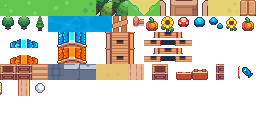
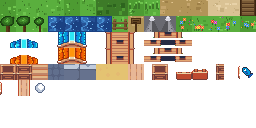
Use procedural pixel art tiles for much better terrain visuals
- Create build_tileset.py combining generate_tileset.py procedural tiles
  with buildings pack houses and Sunnyside interior tiles
- Procedural tiles have proper grass shading, lush tree canopies,
  animated water with waves, detailed paths, snow-capped mountains,
  colorful flowers with stems, wooden fences and bridges
- Regenerate character sprites with proper directional views and
  distinct colors per character type
- Houses still use Sunnyside buildings pack composite (blue + orange)
- Interior tiles from Sunnyside V2.1 tileset

https://claude.ai/code/session_015JgC28uQDCe8uTjKE3Rpo6

Changed region(s): [[0.0, 0.0, 1.0, 0.25], [0.0938, 0.0, 0.125, 0.0625], [0.1562, 0.0312, 0.1875, 0.0625]]

diff --git a/scripts/build_tileset.py b/scripts/build_tileset.py
@@ -1,0 +1,220 @@
+#!/usr/bin/env python3
+"""Build the final game tileset combining:
+- Procedural terrain tiles (from generate_tileset.py logic)
+- House tiles from Sunnyside buildings pack
+- Interior tiles from Sunnyside tileset
+Output: public/assets/sunnyside_tiles.png (256x128, 16x8 grid matching sprites.js TC layout)
+"""
+
+import sys
+import os
+sys.path.insert(0, os.path.dirname(__file__))
+
+from PIL import Image
+from generate_tileset import (
+    make_grass, make_dark_grass, make_tall_grass, make_path, make_sand,
+    make_tree, make_tree2, make_tree3, make_water, make_flower,
+    make_fence, make_bridge, make_sign, make_mountain, make_characters,
+    TILE
+)
+
+BUILDINGS = '/tmp/archive/SUNNYSIDE_WORLD_BUILDINGS_V0.01/SUNNYSIDE_WORLD_BUILDINGS_V0.01.png'
+SUNNYSIDE_TS = '/tmp/sunnyside/Sunnyside_World_Assets/Tileset/spr_tileset_sunnysideworld_16px.png'
+# Try V2.1 first
+SUNNYSIDE_TS_V2 = '/tmp/v2assets/Sunnyside_World_ASSET_PACK_V2.1/Sunnyside_World_Assets/Tileset/spr_tileset_sunnysideworld_16px.png'
+OUT = 'public/assets'
+
+
+def crop_tile(img, col, row, size=16):
+    return img.crop((col * size, row * size, (col + 1) * size, (row + 1) * size))
+
+
+def composite_house(bld):
+    """Build a 3x4 tile (48x64) house from the buildings pack."""
+    roof = bld.crop((2 * 16, 0, 5 * 16, 3 * 16))
+    wall = bld.crop((2 * 16, 4 * 16, 5 * 16, 8 * 16))
+    roof_s = roof.resize((48, 32), Image.NEAREST)
+    wall_s = wall.resize((48, 32), Image.NEAREST)
+    house = Image.new('RGBA', (48, 64), (0, 0, 0, 0))
+    house.paste(roof_s, (0, 0), roof_s)
+    house.paste(wall_s, (0, 32), wall_s)
+    return house
+
+
+def recolor_house(house, color='orange'):
+    """Create a color variant of the blue house."""
+    result = house.copy()
+    data = list(result.getdata())
+    new_data = []
+    for px in data:
+        r, g, b, a = px
+        if a > 20:
+            if color == 'orange':
+                if b > r + 30 and b > 100:
+                    nr = min(255, b + 20)
+                    ng = min(255, max(0, int(g * 0.65)))
+                    nb = max(0, int(r * 0.3))
+                    new_data.append((nr, ng, nb, a))
+                elif g > r + 30 and g > b + 30 and g > 120:
+                    nr = min(255, int(g * 0.9))
+                    ng = max(0, int(g * 0.5))
+                    nb = max(0, int(b * 0.3))
+                    new_data.append((nr, ng, nb, a))
+                else:
+                    new_data.append(px)
+            else:
+                new_data.append(px)
+        else:
+            new_data.append(px)
+    result.putdata(new_data)
+    return result
+
+
+def main():
+    os.makedirs(OUT, exist_ok=True)
+
+    COLS, ROWS = 16, 8
+    out = Image.new('RGBA', (COLS * TILE, ROWS * TILE), (0, 0, 0, 0))
+
+    def place(tile_img, col, row):
+        if tile_img.size != (16, 16):
+            tile_img = tile_img.resize((16, 16), Image.NEAREST)
+        out.paste(tile_img, (col * TILE, row * TILE), tile_img)
+
+    # ==================== ROW 0: TERRAIN ====================
+    # sprites.js expects: grass(0-5), darkGrass(6-7), tallGrass(8-9), path(10-12), sand(13-14), bridge(15)
+
+    # Grass variants (6 tiles)
+    for i in range(6):
+        place(make_grass(i), i, 0)
+
+    # Dark grass (2 tiles)
+    place(make_dark_grass(0), 6, 0)
+    place(make_dark_grass(1), 7, 0)
+
+    # Tall grass (2 tiles)
+    place(make_tall_grass(0), 8, 0)
+    place(make_tall_grass(1), 9, 0)
+
+    # Path (3 tiles)
+    for i in range(3):
+        place(make_path(i), 10 + i, 0)
+
+    # Sand (2 tiles)
+    place(make_sand(0), 13, 0)
+    place(make_sand(1), 14, 0)
+
+    # Bridge
+    place(make_bridge(), 15, 0)
+
+    # ==================== ROW 1: OBJECTS ====================
+    # sprites.js expects: tree(0-2), water(3-6), fence(7), sign(8), mountain(9-10), flower(11-15)
+
+    # Trees (3 variants)
+    place(make_tree(0), 0, 1)
+    place(make_tree2(1), 1, 1)
+    place(make_tree3(2), 2, 1)
+
+    # Water (4 animated frames)
+    for i in range(4):
+        place(make_water(i), 3 + i, 1)
+
+    # Fence
+    place(make_fence(), 7, 1)
+
+    # Sign
+    place(make_sign(), 8, 1)
+
+    # Mountain (2 tiles)
+    place(make_mountain(), 9, 1)
+    # Mountain variant (slightly different)
+    mt2 = make_mountain()
+    # Flip for variety
+    mt2 = mt2.transpose(Image.FLIP_LEFT_RIGHT)
+    place(mt2, 10, 1)
+
+    # Flowers (5 variants)
+    for i in range(5):
+        place(make_flower(i), 11 + i, 1)
+
+    # ==================== ROW 2: HOUSE (Blue) ====================
+    # sprites.js expects: 12 house tiles (4 rows × 3 cols) at (0-11, y=2)
+    try:
+        bld = Image.open(BUILDINGS)
+        house_blue = composite_house(bld)
+        for row in range(4):
+            for col in range(3):
+                tile = house_blue.crop((col * 16, row * 16, (col + 1) * 16, (row + 1) * 16))
+                place(tile, row * 3 + col, 2)
+        print('Blue house: from buildings pack')
+    except Exception as e:
+        print(f'Blue house: fallback (error: {e})')
+
+    # ==================== ROW 3: HOUSE (Orange) ====================
+    try:
+        bld = Image.open(BUILDINGS)
+        house_orange = recolor_house(composite_house(bld), 'orange')
+        for row in range(4):
+            for col in range(3):
+                tile = house_orange.crop((col * 16, row * 16, (col + 1) * 16, (row + 1) * 16))
+                place(tile, row * 3 + col, 3)
+        print('Orange house: recolored from buildings pack')
+    except Exception as e:
+        print(f'Orange house: fallback (error: {e})')
+
+    # ==================== ROWS 4-5: INTERIOR ====================
+    # Try Sunnyside tileset for furniture
+    ts = None
+    for ts_path in [SUNNYSIDE_TS_V2, SUNNYSIDE_TS]:
+        try:
+            ts = Image.open(ts_path)
+            print(f'Interior tiles from: {ts_path}')
+            break
+        except:
+            continue
+
+    if ts:
+        # Floor tiles
+        place(crop_tile(ts, 39, 9), 0, 4)
+        place(crop_tile(ts, 40, 10), 1, 4)
+        place(crop_tile(ts, 38, 12), 2, 4)
+        # Wall tiles
+        place(crop_tile(ts, 1, 15), 3, 4)
+        place(crop_tile(ts, 2, 15), 4, 4)
+        place(crop_tile(ts, 4, 15), 5, 4)
+        # Table
+        place(crop_tile(ts, 43, 7), 6, 4)
+        place(crop_tile(ts, 42, 7), 7, 4)
+        # Chair
+        place(crop_tile(ts, 40, 12), 8, 4)
+        # Bookshelf
+        place(crop_tile(ts, 35, 9), 9, 4)
+        place(crop_tile(ts, 36, 9), 10, 4)
+        # Barrel
+        place(crop_tile(ts, 45, 12), 11, 4)
+        # Chest
+        place(crop_tile(ts, 46, 12), 12, 4)
+        # Bed
+        place(crop_tile(ts, 37, 10), 13, 4)
+        # Pot
+        place(crop_tile(ts, 44, 10), 14, 4)
+        # Carpet
+        place(crop_tile(ts, 49, 12), 15, 4)
+        # Row 5
+        place(crop_tile(ts, 46, 10), 0, 5)  # Torch
+        place(crop_tile(ts, 43, 10), 1, 5)  # Doormat
+        place(crop_tile(ts, 48, 10), 2, 5)  # Altar
+    else:
+        print('WARNING: No Sunnyside tileset found for interior tiles')
+
+    out.save(f'{OUT}/sunnyside_tiles.png')
+    print(f'Built combined tileset: {out.size} ({COLS}x{ROWS} tiles)')
+
+    # Also regenerate characters
+    char_img = make_characters()
+    char_img.save(f'{OUT}/characters.png')
+    print(f'Regenerated characters: {char_img.size}')
+
+
+if __name__ == '__main__':
+    main()
